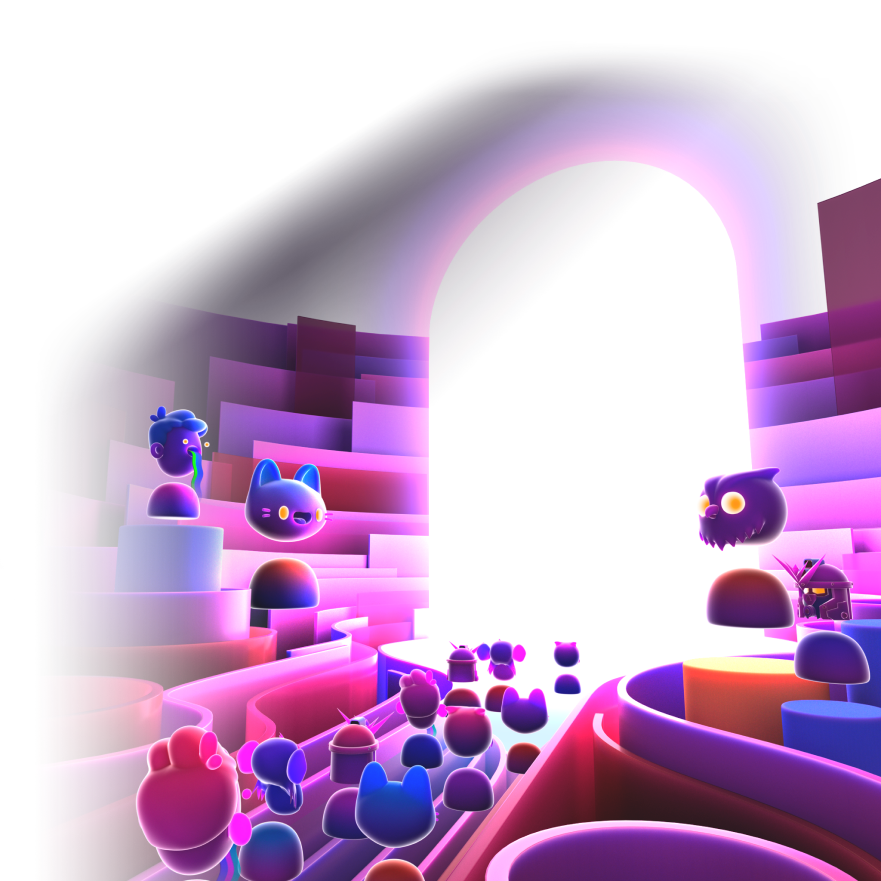
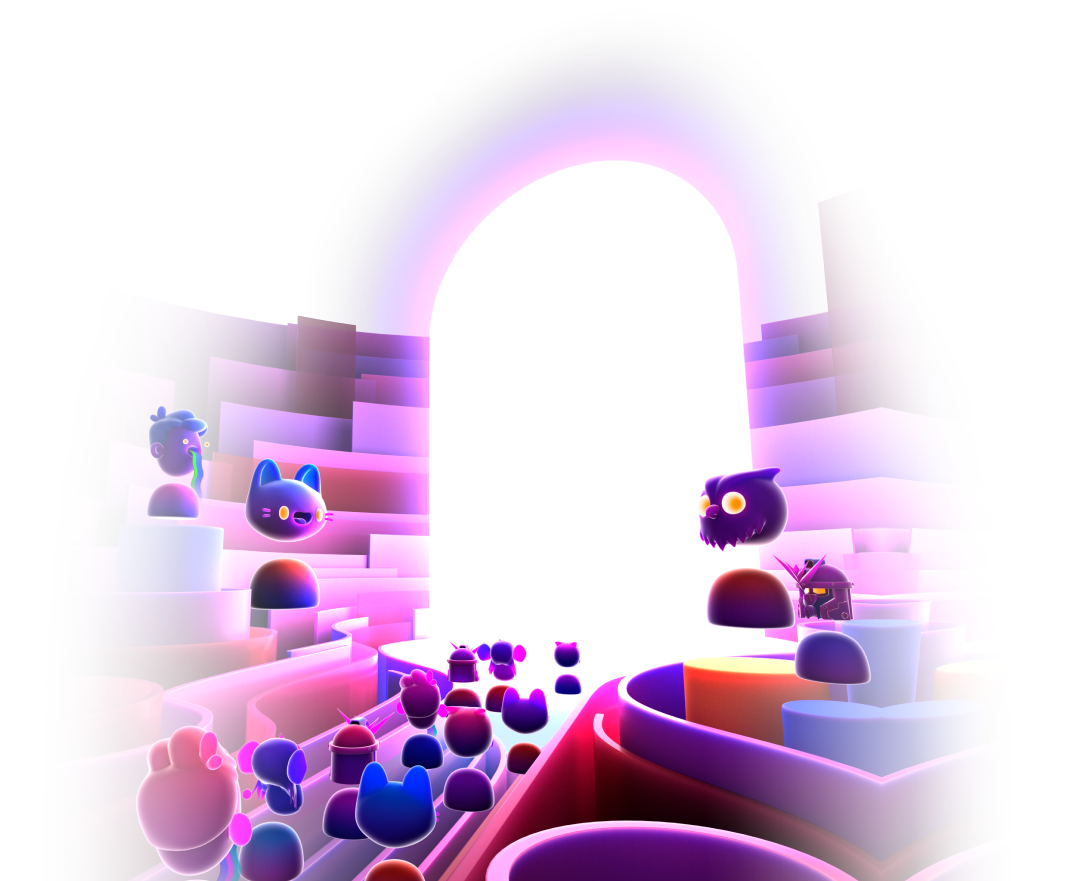
added new hero image

diff --git a/apps/website/components/templates/landing/hero/hero.tsx b/apps/website/components/templates/landing/hero/hero.tsx
@@ -4,7 +4,14 @@ import { TOKENS } from '@gateway/theme';
 import { MotionBox } from '@gateway/ui';
 
 import { ArrowDownward } from '@mui/icons-material';
-import { Box, BoxTypeMap, Button, Stack, Typography } from '@mui/material';
+import {
+  Box,
+  BoxTypeMap,
+  Button,
+  Hidden,
+  Stack,
+  Typography,
+} from '@mui/material';
 import { OverridableComponent } from '@mui/material/OverridableComponent';
 
 import BackgroundImage from '../../../../public/images/hero-background.png';
@@ -28,7 +35,6 @@ export const Hero = forwardRef<
         width: '100%',
         position: 'relative',
         mb: '144px',
-        overflow: 'hidden',
         borderBottom: '1px solid rgba(229, 229, 229, 0.12)',
       }}
     >
@@ -140,13 +146,19 @@ export const Hero = forwardRef<
             duration: 1,
             opacity: { duration: 0.5 },
           }}
-          sx={{
-            width: '61%',
-            height: '86%',
+          sx={(theme) => ({
+            width: '100%',
+            height: '100%',
             position: 'absolute',
             bottom: '0',
-            right: '0',
-          }}
+            right: `-${DEFAULT_PADDINGX}`,
+            overflow: 'hidden',
+            [theme.breakpoints.down('sm')]: {
+              left: '0px',
+              right: '-20px',
+              width: 'calc(100vw - 20px)',
+            },
+          })}
         >
           <HeroBackground
             src={BackgroundImage}
@@ -167,6 +179,12 @@ export const Hero = forwardRef<
             left: 0,
             background:
               'linear-gradient(0deg, rgba(0, 0, 0, 0.64) 0%, rgba(0, 0, 0, 0) 100%)',
+            [theme.breakpoints.down('sm')]: {
+              left: 0,
+              right: '-20px',
+              width: 'calc(100vw - 20px)',
+              overflow: 'hidden',
+            },
           },
         })}
       ></Box>

diff --git a/apps/website/components/templates/landing/hero/styles.tsx b/apps/website/components/templates/landing/hero/styles.tsx
@@ -10,5 +10,7 @@ export const HeroBackground = styled(Image)`
   @media screen and (max-width: 768px) {
     height: 70%;
     width: auto;
+    left: 50%;
+    transform: translate(-50%, 0);
   }
 `;
